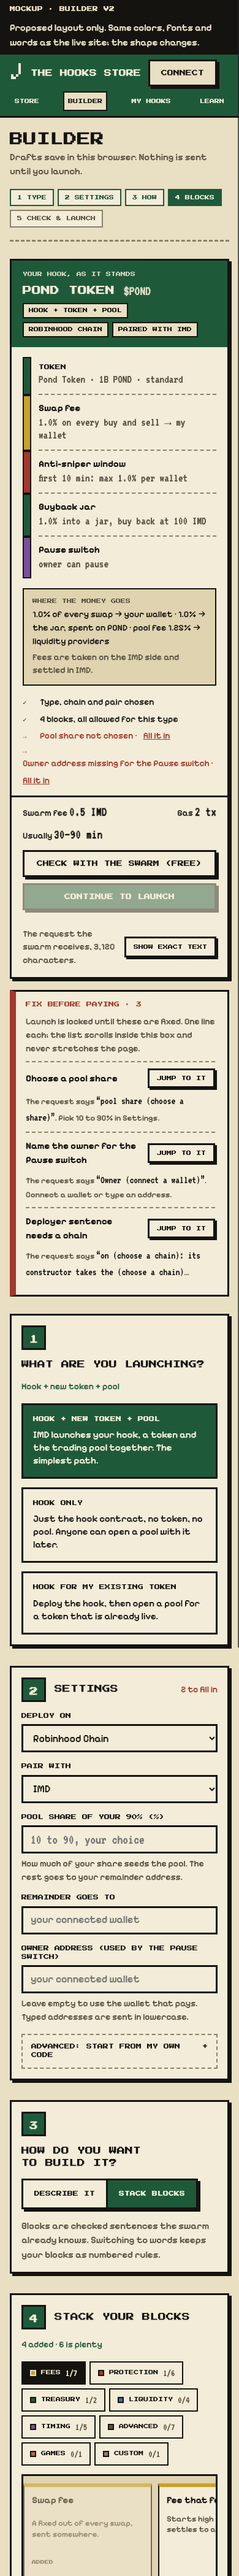
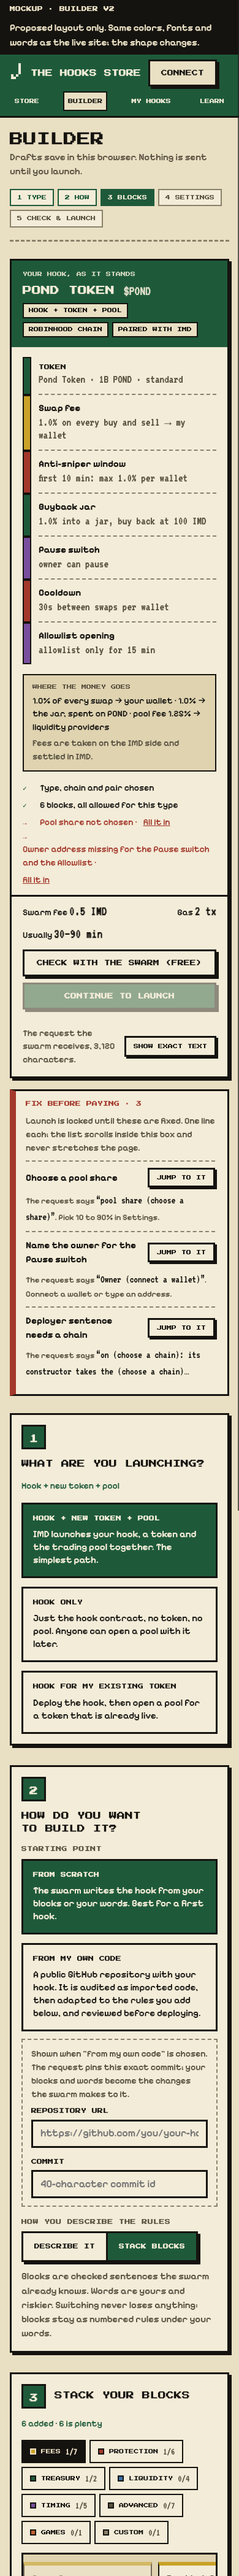
Ad contracts (Ethereum) admitted as launch 2456; Builder v2 round 3

diff --git a/mockup/builder-v2.html b/mockup/builder-v2.html
@@ -104,11 +104,22 @@ label { display: block; font: 400 9px/1.6 var(--display); margin: 0 0 6px; }
 .bcard.added { opacity: .55; }
 .stack-head { display: flex; justify-content: space-between; align-items: baseline; gap: 12px; flex-wrap: wrap; margin-bottom: 10px; }
 .stack-head h3 { font-size: 10px; } .stack-head .small { color: var(--ink-2); }
-.rule { background: var(--paper-3); border: 3px solid var(--ink); border-left: 12px solid var(--swatch, var(--ink)); padding: 14px 16px; margin-bottom: 14px; display: grid; gap: 10px; }
-.rule-head { display: flex; align-items: center; gap: 12px; flex-wrap: wrap; }
-.rule-head .n { font: 400 11px/1 var(--display); color: var(--ink-2); } .rule-head h3 { flex: 1 1 auto; }
-.rule-head .tools { display: flex; gap: 6px; }
-.rule-head .tools button { font: 400 9px/1 var(--display); min-width: 34px; min-height: 34px; border: 2px solid var(--ink); background: var(--paper-3); cursor: pointer; color: var(--ink); }
+.rule { background: var(--paper-3); border: 3px solid var(--ink); border-left: 12px solid var(--swatch, var(--ink)); margin-bottom: 8px; min-width: 0; }
+.rule .row { display: grid; grid-template-columns: auto minmax(0, 1fr) auto auto; gap: 12px; align-items: center; padding: 8px 12px 8px 14px; }
+.rule .row .n { font: 400 11px/1 var(--display); color: var(--ink-2); }
+.rule .txt { display: flex; gap: 10px 14px; align-items: baseline; flex-wrap: wrap; min-width: 0; }
+.rule .txt strong { font: 400 9px/1.6 var(--display); } .rule .txt span { font-family: var(--mono); font-size: 19px; line-height: 1.1; color: var(--ink-2); overflow-wrap: anywhere; }
+.rule .chip { font: 400 7px/1.5 var(--display); color: var(--ink-2); border: 2px solid var(--ink-3); padding: 4px 6px; white-space: nowrap; }
+.rule .chip.owner { color: var(--pine); border-color: var(--pine); }
+.rule .tools { display: flex; gap: 6px; }
+.rule .tools button { font: 400 8px/1 var(--display); min-width: 32px; min-height: 32px; border: 2px solid var(--ink); background: var(--paper-3); cursor: pointer; color: var(--ink); padding: 0 8px; }
+.rule .tools .edit { background: var(--paper-2); }
+.rule .body { display: none; padding: 4px 14px 14px; border-top: 2px dashed var(--ink-3); }
+.rule.open .body { display: grid; gap: 10px; }
+.rule.open .row { background: var(--paper-2); }
+.link { font: inherit; background: none; border: 0; padding: 0; color: var(--pine); text-decoration: underline; cursor: pointer; }
+.start { display: grid; grid-template-columns: 1fr 1fr; gap: 14px; }
+.own { margin-top: 12px; padding: 12px 14px; border: 2px dashed var(--ink-3); }
 .rule .params { display: grid; grid-template-columns: repeat(auto-fit, minmax(160px, 1fr)); gap: 12px; }
 .rule .who { font-size: 14px; color: var(--ink-2); }
 .rule .who b { color: var(--ink); font-weight: 600; }
@@ -180,7 +191,8 @@ dialog pre mark { background: #f6e3a1; color: inherit; outline: 2px solid var(--
   .hookcol .hookcard { box-shadow: var(--shadow); }
 }
 @media (max-width: 720px) {
-  .types, .fields { grid-template-columns: 1fr; }
+  .types, .fields, .start { grid-template-columns: 1fr; }
+  .rule .row { grid-template-columns: auto minmax(0, 1fr); } .rule .chip { grid-column: 2; justify-self: start; } .rule .tools { grid-column: 1 / -1; }
   .step { padding: 16px; }
   .shelf { display: flex; overflow-x: auto; scroll-snap-type: x mandatory; padding: 12px; gap: 10px; }
   .shelf .bcard { flex: 0 0 210px; scroll-snap-align: start; }
@@ -201,7 +213,7 @@ dialog pre mark { background: #f6e3a1; color: inherit; outline: 2px solid var(--
 <main class="wrap">
 <div class="head">
   <div><h1>BUILDER</h1><p>Drafts save in this browser. Nothing is sent until you launch.</p></div>
-  <div class="progress" aria-label="Progress"><span class="done">1 TYPE</span><span class="done">2 SETTINGS</span><span class="done">3 HOW</span><span class="now">4 BLOCKS</span><span>5 CHECK &amp; LAUNCH</span></div>
+  <div class="progress" aria-label="Progress"><span class="done">1 TYPE</span><span class="done">2 HOW</span><span class="now">3 BLOCKS</span><span>4 SETTINGS</span><span>5 CHECK &amp; LAUNCH</span></div>
 </div>
 
 <div class="b2">
@@ -216,25 +228,28 @@ dialog pre mark { background: #f6e3a1; color: inherit; outline: 2px solid var(--
     </div>
   </section>
 
-  <section class="step" aria-labelledby="s4">
-    <div class="step-head"><span class="n">2</span><h2 id="s4">SETTINGS</h2><span class="state" style="color:var(--bad)">2 to fill in</span></div>
-    <div class="fields">
-      <div><label for="s-chain">DEPLOY ON</label><select id="s-chain"><option value="">Choose a chain</option><option selected>Robinhood Chain</option><option>Ethereum</option></select></div>
-      <div><label for="s-pair">PAIR WITH</label><select id="s-pair"><option selected>IMD</option><option>ETH</option></select></div>
-      <div><label for="s-pool">POOL SHARE OF YOUR 90% (%)</label><input id="s-pool" type="number" placeholder="10 to 90, your choice" class="num"><p class="hint">How much of your share seeds the pool. The rest goes to your remainder address.</p></div>
-      <div><label for="s-rem">REMAINDER GOES TO</label><input id="s-rem" placeholder="your connected wallet" spellcheck="false"></div>
-      <div class="wide"><label for="s-owner">OWNER ADDRESS (USED BY THE PAUSE SWITCH)</label><input id="s-owner" placeholder="your connected wallet" spellcheck="false"><p class="hint">Leave empty to use the wallet that pays. Typed addresses are sent in lowercase.</p></div>
-    </div>
-    <details class="adv"><summary>ADVANCED: START FROM MY OWN CODE</summary><div><p class="small">Point the swarm at a public GitHub repository with your hook. It is audited as imported code, adapted to the launch, and reviewed before deploying.</p><div class="fields" style="margin-top:12px"><div><label for="s-repo">REPOSITORY URL</label><input id="s-repo" placeholder="https://github.com/you/your-hook"></div><div><label for="s-commit">COMMIT</label><input id="s-commit" placeholder="40-character commit id"></div></div></div></details>
-  </section>
+
+
+
 
   <section class="step" aria-labelledby="s2">
-    <div class="step-head"><span class="n">3</span><h2 id="s2">HOW DO YOU WANT TO BUILD IT?</h2><div class="seg" role="group" aria-label="Builder mode"><button type="button">DESCRIBE IT</button><button type="button" class="on">STACK BLOCKS</button></div></div>
-    <p class="mode-note">Blocks are checked sentences the swarm already knows. Switching to words keeps your blocks as numbered rules.</p>
+    <div class="step-head"><span class="n">2</span><h2 id="s2">HOW DO YOU WANT TO BUILD IT?</h2></div>
+    <h4 style="margin-bottom:8px">STARTING POINT</h4>
+    <div class="start">
+      <button class="type on" type="button"><strong>FROM SCRATCH</strong><span>The swarm writes the hook from your blocks or your words. Best for a first hook.</span></button>
+      <button class="type" type="button"><strong>FROM MY OWN CODE</strong><span>A public GitHub repository with your hook. It is audited as imported code, then adapted to the rules you add below, and reviewed before deploying.</span></button>
+    </div>
+    <div class="own" aria-label="Own code fields">
+      <p class="small muted" style="margin-bottom:10px">Shown when "from my own code" is chosen. The request pins this exact commit; your blocks and words become the changes the swarm makes to it.</p>
+      <div class="fields"><div><label for="s-repo">REPOSITORY URL</label><input id="s-repo" placeholder="https://github.com/you/your-hook"></div><div><label for="s-commit">COMMIT</label><input id="s-commit" placeholder="40-character commit id"></div></div>
+    </div>
+    <h4 style="margin:18px 0 8px">HOW YOU DESCRIBE THE RULES</h4>
+    <div class="seg" role="group" aria-label="Builder mode"><button type="button">DESCRIBE IT</button><button type="button" class="on">STACK BLOCKS</button></div>
+    <p class="mode-note">Blocks are checked sentences the swarm already knows. Words are yours and riskier. Switching never loses anything: blocks stay as numbered rules under your words.</p>
   </section>
 
   <section class="step" aria-labelledby="s3">
-    <div class="step-head"><span class="n">4</span><h2 id="s3">STACK YOUR BLOCKS</h2><span class="state">4 added · 6 is plenty</span></div>
+    <div class="step-head"><span class="n">3</span><h2 id="s3">STACK YOUR BLOCKS</h2><span class="state">6 added · 6 is plenty</span></div>
     <div class="shelf-tabs" role="tablist" aria-label="Block categories">
       <button role="tab" class="on" style="--swatch:var(--fees)"><i></i>FEES <span class="c">1/7</span></button>
       <button role="tab" style="--swatch:var(--protection)"><i></i>PROTECTION <span class="c">1/6</span></button>
@@ -255,36 +270,50 @@ dialog pre mark { background: #f6e3a1; color: inherit; outline: 2px solid var(--
       <div class="bcard"><strong>Dynamic LP fee</strong><p>The pool’s own fee tier moves with volatility. Own pools only.</p><div class="foot"><span class="state">OWN POOLS ONLY</span></div></div>
     </div>
 
-    <div class="stack-head"><h3>YOUR STACK</h3><span class="small">Rules run in this order. Drag or use the arrows.</span></div>
+    <div class="stack-head"><h3>YOUR STACK</h3><span class="small">One line per rule. Open a rule to change its numbers. <button class="link" type="button" id="expand-all">Open all</button></span></div>
     <div id="stack">
       <article class="rule" style="--swatch:var(--token)">
-        <div class="rule-head"><span class="n">0</span><h3>LAUNCH TOKEN</h3><span class="pill">STANDARD</span></div>
-        <div class="params"><div><label for="t-name">NAME</label><input id="t-name" value="Pond Token"></div><div><label for="t-sym">SYMBOL</label><input id="t-sym" value="POND"></div></div>
-        <p class="who">1B supply, 18 decimals, no owner. <b>10% to the swarm</b>, your pool share from the rest.</p>
+        <div class="row"><span class="n">0</span><div class="txt"><strong>LAUNCH TOKEN</strong><span>Pond Token ($POND) · standard · 1B</span></div><span class="chip">STANDARD</span><div class="tools"><button type="button" class="edit" aria-expanded="false">EDIT</button></div></div>
+        <div class="body"><div class="params"><div><label for="t-name">NAME</label><input id="t-name" value="Pond Token"></div><div><label for="t-sym">SYMBOL</label><input id="t-sym" value="POND"></div></div><p class="who">1B supply, 18 decimals, no owner. <b>10% to the swarm</b>, your pool share from the rest.</p></div>
       </article>
-      <article class="rule" style="--swatch:var(--fees)">
-        <div class="rule-head"><span class="n">1</span><h3>SWAP FEE</h3><div class="tools"><button type="button" aria-label="Move up">↑</button><button type="button" aria-label="Move down">↓</button><button type="button" aria-label="Remove">×</button></div></div>
-        <div class="params"><div><label for="f-rate">RATE (%)</label><input id="f-rate" type="number" value="1.0" step="0.1" class="num"></div><div><label for="f-on">ON</label><select id="f-on"><option>every buy and sell</option><option>buys only</option><option>sells only</option></select></div><div><label for="f-to">SEND TO</label><select id="f-to"><option>my wallet</option><option>treasury</option><option>an address…</option></select></div></div>
-        <p class="who"><b>Runs itself.</b> Anyone can press the button that sends collected fees to the recipient. · On the hook page: <b>claimFees()</b></p>
+      <article class="rule open" style="--swatch:var(--fees)">
+        <div class="row"><span class="n">1</span><div class="txt"><strong>SWAP FEE</strong><span>1.0% on every buy and sell → my wallet</span></div><span class="chip">RUNS ITSELF</span><div class="tools"><button type="button" aria-label="Move up">↑</button><button type="button" aria-label="Move down">↓</button><button type="button" aria-label="Remove">×</button><button type="button" class="edit" aria-expanded="true">CLOSE</button></div></div>
+        <div class="body"><div class="params"><div><label for="f-rate">RATE (%)</label><input id="f-rate" type="number" value="1.0" step="0.1" class="num"></div><div><label for="f-on">ON</label><select id="f-on"><option>every buy and sell</option><option>buys only</option><option>sells only</option></select></div><div><label for="f-to">SEND TO</label><select id="f-to"><option>my wallet</option><option>treasury</option><option>an address…</option></select></div></div><p class="who"><b>Runs itself.</b> Anyone can press the button that sends collected fees to the recipient. · On the hook page: <b>claimFees()</b></p></div>
       </article>
       <article class="rule" style="--swatch:var(--protection)">
-        <div class="rule-head"><span class="n">2</span><h3>ANTI-SNIPER WINDOW</h3><div class="tools"><button type="button" aria-label="Move up">↑</button><button type="button" aria-label="Move down">↓</button><button type="button" aria-label="Remove">×</button></div></div>
-        <div class="params"><div><label for="a-min">FOR THE FIRST (MIN)</label><input id="a-min" type="number" value="10" class="num"></div><div><label for="a-pct">MAX PER WALLET (% OF SUPPLY)</label><input id="a-pct" type="number" value="1.0" step="0.1" class="num"></div></div>
-        <p class="who"><b>Runs itself</b> for the window, then switches off. · On the hook page: <b>windowEndsAt()</b></p>
+        <div class="row"><span class="n">2</span><div class="txt"><strong>ANTI-SNIPER WINDOW</strong><span>first 10 min: max 1.0% per wallet</span></div><span class="chip">RUNS ITSELF</span><div class="tools"><button type="button" aria-label="Move up">↑</button><button type="button" aria-label="Move down">↓</button><button type="button" aria-label="Remove">×</button><button type="button" class="edit" aria-expanded="false">EDIT</button></div></div>
+        <div class="body"><div class="params"><div><label for="a-min">FOR THE FIRST (MIN)</label><input id="a-min" type="number" value="10" class="num"></div><div><label for="a-pct">MAX PER WALLET (% OF SUPPLY)</label><input id="a-pct" type="number" value="1.0" step="0.1" class="num"></div></div><p class="who"><b>Runs itself</b> for the window, then switches off. · On the hook page: <b>windowEndsAt()</b></p></div>
       </article>
       <article class="rule" style="--swatch:var(--treasury)">
-        <div class="rule-head"><span class="n">3</span><h3>BUYBACK JAR</h3><div class="tools"><button type="button" aria-label="Move up">↑</button><button type="button" aria-label="Move down">↓</button><button type="button" aria-label="Remove">×</button></div></div>
-        <div class="params"><div><label for="j-rate">INTO THE JAR (%)</label><input id="j-rate" type="number" value="1.0" step="0.1" class="num"></div><div><label for="j-trig">BUY BACK AT (IMD)</label><input id="j-trig" type="number" value="100" class="num"></div></div>
-        <p class="who"><b>Runs itself;</b> anyone presses the button when the jar is full. · On the hook page: <b>buyback()</b>, <b>jar()</b></p>
+        <div class="row"><span class="n">3</span><div class="txt"><strong>BUYBACK JAR</strong><span>1.0% into a jar, buy back at 100 IMD</span></div><span class="chip">ANYONE PRESSES</span><div class="tools"><button type="button" aria-label="Move up">↑</button><button type="button" aria-label="Move down">↓</button><button type="button" aria-label="Remove">×</button><button type="button" class="edit" aria-expanded="false">EDIT</button></div></div>
+        <div class="body"><div class="params"><div><label for="j-rate">INTO THE JAR (%)</label><input id="j-rate" type="number" value="1.0" step="0.1" class="num"></div><div><label for="j-trig">BUY BACK AT (IMD)</label><input id="j-trig" type="number" value="100" class="num"></div></div><p class="who"><b>Runs itself;</b> anyone presses the button when the jar is full. · On the hook page: <b>buyback()</b>, <b>jar()</b></p></div>
       </article>
       <article class="rule" style="--swatch:var(--timing)">
-        <div class="rule-head"><span class="n">4</span><h3>PAUSE SWITCH</h3><div class="tools"><button type="button" aria-label="Move up">↑</button><button type="button" aria-label="Move down">↓</button><button type="button" aria-label="Remove">×</button></div></div>
-        <p class="who"><b>The owner</b> can pause and resume swaps. Liquidity can always be removed while paused. Buyers may dislike it. · On the hook page: owner buttons <b>pause</b>, <b>unpause</b></p>
+        <div class="row"><span class="n">4</span><div class="txt"><strong>PAUSE SWITCH</strong><span>owner can pause</span></div><span class="chip owner">OWNER</span><div class="tools"><button type="button" aria-label="Move up">↑</button><button type="button" aria-label="Move down">↓</button><button type="button" aria-label="Remove">×</button><button type="button" class="edit" aria-expanded="false">EDIT</button></div></div>
+        <div class="body"><p class="who"><b>The owner</b> can pause and resume swaps. Liquidity can always be removed while paused. Buyers may dislike it. · On the hook page: owner buttons <b>pause</b>, <b>unpause</b></p></div>
+      </article>
+      <article class="rule" style="--swatch:var(--protection)">
+        <div class="row"><span class="n">5</span><div class="txt"><strong>COOLDOWN</strong><span>30s between swaps per wallet</span></div><span class="chip">RUNS ITSELF</span><div class="tools"><button type="button" aria-label="Move up">↑</button><button type="button" aria-label="Move down">↓</button><button type="button" aria-label="Remove">×</button><button type="button" class="edit" aria-expanded="false">EDIT</button></div></div>
+        <div class="body"><div class="params"><div><label for="c-secs">WAIT (SECONDS)</label><input id="c-secs" type="number" value="30" class="num"></div></div><p class="who"><b>Runs itself.</b> Makes a wallet wait between swaps.</p></div>
+      </article>
+      <article class="rule" style="--swatch:var(--timing)">
+        <div class="row"><span class="n">6</span><div class="txt"><strong>ALLOWLIST OPENING</strong><span>allowlist only for 15 min</span></div><span class="chip owner">OWNER</span><div class="tools"><button type="button" aria-label="Move up">↑</button><button type="button" aria-label="Move down">↓</button><button type="button" aria-label="Remove">×</button><button type="button" class="edit" aria-expanded="false">EDIT</button></div></div>
+        <div class="body"><div class="params"><div><label for="w-min">FOR THE FIRST (MIN)</label><input id="w-min" type="number" value="15" class="num"></div></div><p class="who"><b>The owner</b> adds and removes buyer addresses. While it is active, only the owner may add liquidity.</p></div>
       </article>
     </div>
+    <p class="hint" style="margin-top:10px">Six rules stacked. Above six, every extra rule is more for the audit panel to refuse, and the contract has a 24 KB size limit.</p>
   </section>
 
-
+  <section class="step" aria-labelledby="s4">
+    <div class="step-head"><span class="n">4</span><h2 id="s4">SETTINGS</h2><span class="state" style="color:var(--bad)">2 to fill in</span></div>
+    <div class="fields">
+      <div><label for="s-chain">DEPLOY ON</label><select id="s-chain"><option value="">Choose a chain</option><option selected>Robinhood Chain</option><option>Ethereum</option></select></div>
+      <div><label for="s-pair">PAIR WITH</label><select id="s-pair"><option selected>IMD</option><option>ETH</option></select></div>
+      <div><label for="s-pool">POOL SHARE OF YOUR 90% (%)</label><input id="s-pool" type="number" placeholder="10 to 90, your choice" class="num"><p class="hint">How much of your share seeds the pool. The rest goes to your remainder address.</p></div>
+      <div><label for="s-rem">REMAINDER GOES TO</label><input id="s-rem" placeholder="your connected wallet" spellcheck="false"></div>
+      <div class="wide"><label for="s-owner">OWNER ADDRESS (USED BY THE PAUSE SWITCH)</label><input id="s-owner" placeholder="your connected wallet" spellcheck="false"><p class="hint">Leave empty to use the wallet that pays. Typed addresses are sent in lowercase.</p></div>
+    </div>
+  </section>
 </div>
 
 <aside class="hookcol" aria-label="The hook you are building">
@@ -300,13 +329,15 @@ dialog pre mark { background: #f6e3a1; color: inherit; outline: 2px solid var(--
       <div class="tile" style="--swatch:var(--protection)"><i></i><div class="t"><strong>Anti-sniper window</strong><span>first 10 min: max 1.0% per wallet</span></div></div>
       <div class="tile" style="--swatch:var(--treasury)"><i></i><div class="t"><strong>Buyback jar</strong><span>1.0% into a jar, buy back at 100 IMD</span></div></div>
       <div class="tile" style="--swatch:var(--timing)"><i></i><div class="t"><strong>Pause switch</strong><span>owner can pause</span></div></div>
+      <div class="tile" style="--swatch:var(--protection)"><i></i><div class="t"><strong>Cooldown</strong><span>30s between swaps per wallet</span></div></div>
+      <div class="tile" style="--swatch:var(--timing)"><i></i><div class="t"><strong>Allowlist opening</strong><span>allowlist only for 15 min</span></div></div>
     </div>
     <div class="flow"><b>WHERE THE MONEY GOES</b><span>1.0% of every swap → your wallet · 1.0% → the jar, spent on POND · pool fee 1.25% → liquidity providers</span><span class="muted">Fees are taken on the IMD side and settled in IMD.</span></div>
     <ul class="ready" aria-label="Before you can launch">
       <li>Type, chain and pair chosen</li>
-      <li>4 blocks, all allowed for this type</li>
+      <li>6 blocks, all allowed for this type</li>
       <li class="todo">Pool share not chosen · <button type="button">fill it in</button></li>
-      <li class="todo">Owner address missing for the Pause switch · <button type="button">fill it in</button></li>
+      <li class="todo">Owner address missing for the Pause switch and the Allowlist · <button type="button">fill it in</button></li>
     </ul>
     <div class="cost"><span>Swarm fee <strong>0.5 IMD</strong></span><span>Gas <strong>2 tx</strong></span><span>Usually <strong>30–90 min</strong></span></div>
     <div class="hc-actions"><button class="btn" type="button">CHECK WITH THE SWARM (FREE)</button><button class="btn primary" type="button" disabled>CONTINUE TO LAUNCH</button></div>
@@ -325,7 +356,7 @@ dialog pre mark { background: #f6e3a1; color: inherit; outline: 2px solid var(--
 </aside>
 </div>
 
-<div class="note"><b>WHAT CHANGED, FOR THE OWNER</b>Settings come second, right after the launch type, so chain, pair and pool share are chosen before any block. The three cramped columns become two: the steps you work through on the left, and the hook itself on the right as a stack of tiles you can read at a glance. The block palette is a shelf above the stack, grouped by category tabs, with each block’s description visible. The red "fix the request" panel never quotes the whole request again: one line per problem, the few words that are wrong, and a button that jumps to the field. The exact text the swarm receives opens in a sheet when you ask for it, with the wrong words highlighted. Every list that can grow, your stack of tiles, the findings and the exact text, scrolls inside its own box; the hook card never gets taller than the screen. Everything else, the words, the numbers, the checks and the prices, is the same.</div>
+<div class="note"><b>WHAT CHANGED, FOR THE OWNER</b>The order is type, how, blocks, settings. "Start from my own code" moved into step 2 as the starting point: your repository is audited as imported code, then adapted to the blocks and words you add, so blocks on top of your own code is a real path. The stack is one line per rule, with the numbers filled in, a chip saying who uses it, and the fields only when you open a rule, so ten rules take the space four used to. The hook card on the right reads the same stack at a glance, with where the money goes and a readiness list. Findings are one line each in a box that scrolls; the exact text opens in a sheet with the wrong words highlighted. Same colours, fonts, words and prices. No change to what is sent to IMD or to the relay.</div>
 </main>
 
 <dialog id="exact">
@@ -355,6 +386,8 @@ Owner <mark>(connect a wallet)</mark> may only: pause and unpause swaps. No othe
     document.getElementById('tiles').appendChild(tile);
     var card = b.closest('.bcard'); card.classList.add('added'); card.querySelector('.state').textContent = 'ADDED'; b.remove();
   });
+  document.getElementById('stack').addEventListener('click', function (e) { var b = e.target.closest('.edit'); if (!b) return; var r = b.closest('.rule'); r.classList.toggle('open'); var on = r.classList.contains('open'); b.textContent = on ? 'CLOSE' : 'EDIT'; b.setAttribute('aria-expanded', on); });
+  document.getElementById('expand-all').addEventListener('click', function () { var all = [...document.querySelectorAll('.rule')]; var open = all.some(function (r) { return !r.classList.contains('open'); }); all.forEach(function (r) { r.classList.toggle('open', open); var b = r.querySelector('.edit'); b.textContent = open ? 'CLOSE' : 'EDIT'; b.setAttribute('aria-expanded', open); }); this.textContent = open ? 'Close all' : 'Open all'; });
   document.querySelectorAll('.shelf-tabs button').forEach(function (t) { t.addEventListener('click', function () { document.querySelectorAll('.shelf-tabs button').forEach(function (x) { x.classList.remove('on'); }); t.classList.add('on'); }); });
 })();
 </script>

diff --git a/evidence/launch-10a-ethereum-reviews.md b/evidence/launch-10a-ethereum-reviews.md
@@ -1,0 +1,164 @@
+# Ad contracts launch (Ethereum) reviews, copied from https://explorer.imd.fun/jobs/a9818b4d-a1fe-4ef7-bab0-82509f56b0ac on 2026-10-22
+
+Implemented both contracts. The registry remains byte-identical to the pinned source; V2 adds 24-hour placements, nonrefundable boosts, ranking totals, and tested escrow conservation.
+Passed forge build, all 65 tests with the supplied fuzz seed, and forge fmt --check.
+Deployment parameters, owner setup, and ABI changes are documented in README.md.
+
+---
+
+I found no defects I could back up with a failing input, so .imd-findings.json has an empty findings list. Its coverage record has a row for all 18 entry points, each marked holds, plus rows for the balance invariant and the source diff. No repository files were changed.
+What I checked:
+
+Changes against the starting source. I fetched the original contracts at commit 46e17ea. HookListingRegistry, StoreAdmin and ExactStoreToken are byte-identical. FeaturedPlacementsV2 differs only in what was asked for:
+
+DURATION is 24 hours.
+It adds totalBoost, boost and rankOf.
+featured also returns each placement's total.
+The cancel and settle events now carry the #ad label.
+
+
+Following the money. boost moves the caller's deposited balance into escrow. cancel refunds the base price to the payer pro rata exactly as before, and sends the earned base plus the whole boost to the recipient fixed at purchase. settle sends price plus boost to that recipient and can't run twice. Every path moves equal amounts between buckets, so the balance rule (available + escrowed + proceeds) always holds. Boosts are refused after a placement closes or expires.
+Access. Owner functions are owner-only with an explicit owner argument. There is no admin sweep. Changing the proceeds recipient affects only future purchases, and existing placements, boosts included, keep theirs.
+Static-analysis leads. None held up:
+
+The reentrancy leads are blocked by the reentrancy guard.
+The external call in purchase only reads from the fixed registry address.
+The flagged "strict equality" is a status check, not a balance check.
+The registry's loops are capped at 16 labels of 32 bytes.
+
+
+The IMD token. Read on Ethereum mainnet, 0xd34a99bc…63b7 reports 18 decimals and symbol IMD, and has no proxy. That fits configureToken's checks and the exact-transfer checks.
+Tests. forge test passes all 65 tests, including the boost tests and the invariant tests with boosts.
+
+One behaviour I left out as a finding because the specified boost(uint256,uint256) signature doesn't allow for it: a boost has no deadline. A boost waiting in the mempool could land a few seconds before the placement expires and still be kept in full.
+A clean review doesn't prove the contracts are free of defects.
+
+---
+
+Created launch.json with both contracts in dependency order and the required $owner argument.
+Manifest checks and compiled ABI comparison passed. forge build succeeded; all 65 tests passed with the supplied fuzz seed. Only launch.json is changed for submission.
+
+---
+
+The findings file is in place at the repository root (excluded from git by the harness's own exclude rule, as expected), it parses, and both snippets match the tree line for line. No other file was created or changed.
+Scope
+Files read: src/store/FeaturedPlacementsV2.sol, ExactStoreToken.sol, StoreAdmin.sol, HookListingRegistry.sol, all eight test suites and both helpers, the README and verification notes, the Pashov Mindset plus the Economic Security, Invariant and Flow Gap guides, and the protected deployment floor. The existing suite runs green at 65 tests including two stateful invariant suites of 128 runs by 128 calls.
+Severity counts: 0 Critical · 0 High · 0 Medium · 0 Low · 2 Info
+Result: no defect found in the economic area. The two info entries are design consequences the brief itself mandates, recorded so the judge and operator see them, not fixes the author must make.
+
+Boost forfeiture with no expectation guard. A third party's boost can be back-run by the payer's cancel in the same block, sending the whole boost to the proceeds recipient for zero delivered exposure. The brief requires exactly this ("never refunded"), and the existing immediate-cancel test reproduces it. Conservation holds throughout.
+Stray IMD sent directly to the escrow is unrecoverable. Nothing can sweep it, including the owner. The original design states there is no sweep, and the existing direct-transfer test reproduces it.
+
+What I verified and concluded holds:
+
+Conservation. Every writer of the three totals was traced. Deposit and withdraw move only available balance behind exact delta checks. Purchase and boost move available into escrow one for one. Cancel removes exactly base plus boost from escrow and splits it into refund and earned. Settle moves base plus boost to proceeds.
+One live placement per listing. A new purchase needs the latest placement to be dead, and earlier placements always end sooner, so none can come back to life. Listing transfers keep the same id and the rule survives.
+Pinned terms. Recipient and revision are captured at purchase. Rotating the recipient or editing the listing cannot redirect existing escrow or boosts.
+Live dependency. I read the IMD token on mainnet. It is "Identity.md", 18 decimals, a LayerZero OFT over a standard ERC-20. Its selector set has no pause, fee, or blacklist entry, and the only owner-side token powers are name and symbol updates and messaging configuration, so the dependency cannot freeze deposits or withdrawals.
+Static analysis leads. The strict-equality lines compare an enum to None, the reentrancy line is a staticcall into the immutable registry, and the unused-return line is an intentional ABI probe. None reproduces as a defect.
+
+The coverage record answers all 18 entry points and adds rows for the conservation, boost-escrow, ranking and rounding invariants. No part of the assigned area was left unreached.
+
+---
+
+All 73 tests pass under forge build and forge test with the verifier's fuzz seed (65 already there plus 8 new). I found no defects, so I did not write .imd-findings.json. The new tests are on disk but not committed. Everything I added is under test/, and the source, config and earlier tests are unchanged.
+The earlier tests already covered everything the brief asked for: the 24-hour duration, a third party boosting, the boost being lost on cancel, ranking ties, and the balance invariant with boosts. I added three files for what was still missing:
+
+
+test/FeaturedModelInvariant.t.sol: random call sequences against FeaturedPlacementsV2. The earlier invariant handlers skip calls that should fail; this one makes every call. That includes callers who should be refused: Carol, who boosts but never owns a listing; Mallory, an outsider who also tries the owner-only functions; and the proceeds recipients. Each call must succeed exactly when a separate model of the contract says it should, so a refused call is shown to change nothing. It also mixes in boosts right at the expiry second, listing transfers, recipient changes and tokens sent directly to the contract. After every sequence it checks that:
+
+the contract's token balance equals totalAvailable + totalEscrowed + totalProceeds, plus any tokens sent directly;
+each account's balances, each placement's status, refund and boost, and rankOf match the model;
+a closed placement never reopens, and each listing has at most one live placement;
+featured returns totals that line up with rankOf, in ascending id order;
+only proceeds recipients ever earn anything;
+at the end, everything still locked can be paid out without the owner.
+
+To check that this suite can actually fail, I ran a copy with a deliberately wrong cancel rule. It failed straight away.
+
+
+test/HookListingRegistryInvariant.t.sol: random create, update, hide/show, propose, cancel and accept calls on the registry from any caller, checked against a model. Every listing must stay findable under its current owner, with no stale entries left behind after a transfer. Labels, revisions and search results must match, and isAudited must stay false.
+
+
+test/FeaturedBoostEdges.t.sol (6 tests):
+
+a fuzz test showing a boost can spend exactly the caller's deposited balance and not 1 more;
+a fuzz test where a new listing owner cancels a placement Carol boosted, at a random time: the seller gets the pro-rata base refund, Carol gets nothing back, and her whole boost goes to the pinned recipient;
+earned proceeds can't pay for a boost, and deposits can't be withdrawn as proceeds;
+a booster can't cancel, and nobody can settle early;
+an owner who has proposed a transfer, and a former owner, have no owner powers;
+an ad stays live and boostable after its listing is hidden, but the listing can't buy another while hidden.
+
+
+
+Two behaviours match the brief as I read it, so I didn't report them as defects; they're worth deciding on deliberately:
+
+Boosting stops at expiry. Once a placement's 24 hours are up, boosting it is refused, even before anyone settles it. The brief says boosts are allowed "while the placement is open", which I took to mean live.
+A booster can lose their boost almost immediately. If the buyer or the listing's current owner cancels one second after a third party boosts, the whole boost goes to the proceeds recipient. That is the "never refunded" rule working as written, but the website may want to warn boosters about it.
+
+No tests were needed against the live IMD token: the contract never calls it at construction, and the earlier tests cover badly behaved tokens with a local mock.
+
+---
+
+The review is complete and the findings file is in place. No source files were changed, and the scratch tests were removed.
+Outcome: the math in FeaturedPlacementsV2 holds. I found no defect that loses funds, pays the wrong party, or breaks the conservation rule. The file .imd-findings.json holds two info-level notes and a coverage row for all 18 entry points plus three invariant rows.
+What I checked, against the Math Precision, Boundary and Numerical Gap guides
+
+The diff against the audited original is exactly the briefed change set. The three unchanged files match the provenance hashes byte for byte. The pro-rata formula is identical to the original with only the divisor changed.
+The single division in cancel cannot overflow (product under 9e21) and is bounded by the expiry guard, so refund plus earned always equals the base price exactly. Boosts are added outside the division, so they never round.
+Every boundary comparison is consistent: boost and cancel reject at or after expiry, settle accepts at expiry, purchase allows renewal exactly at expiry, and the one-live-placement check uses the same predicate as the active view.
+Escrow accounting increments and decrements pair exactly across all seven state-changing functions, so the conservation rule holds with boosts counted in escrow until close. The existing invariant suite with boosts passes.
+The live IMD token on Ethereum reports 18 decimals and passed a throwaway fork run of the full deposit, purchase, boost, cancel and proceeds cycle under the exact-transfer checks.
+All 65 existing tests pass on forge 1.8.3, including the required boost, forfeiture, tie and invariant tests.
+Static-analysis leads were all benign: enum strict-equality, an intentional ABI probe, and a view call to the immutable registry.
+
+The two info notes, with concrete inputs
+
+Cancelling in the same block as the purchase earns the recipient zero and returns the full base, and at one second elapsed the recipient is short by under one wei. This is the agreed pro-rata rule, not a defect. The only effect is that a listing owner can inflate the placement ID space for gas alone.
+The pinned proceeds recipient, which is the owner wallet, can boost any placement and receive the same tokens back as proceeds. The paid ranking is therefore a trust assumption on the owner, not an enforced guarantee.
+
+Not reached: nothing in my assigned area. I did not independently audit the access-control or economics areas beyond what the coverage rows state, since other specialists hold those.
+
+---
+
+The review is complete. The findings file is written and the tree is otherwise unchanged.
+Result: no defect in the permission model. The Access Control, Trust Gap and Asymmetry checks all hold against the code as it stands. The file .imd-findings.json carries one informational trust note and a coverage row for all 18 entry points plus three invariants.
+What I verified
+
+Every owner power is exactly what the brief lists: one-time token choice, recipient for future purchases, two-step rotation. The owner has no sweep, cancel, spend or redirect path. A scratch test confirmed the owner's calls to cancel, withdraw, withdrawProceeds, boost and early settle all revert.
+Recipient rotation cannot touch in-flight value. Each placement pins its recipient at purchase, and purchase takes an expected recipient, so the owner cannot sandwich a buyer or sweep escrowed boosts.
+Every storage variable written by two or more functions is written only on behalf of msg.sender or the pinned payer and recipient. The deposit and withdraw, purchase and cancel or settle, and boost and close pairs mirror each other exactly.
+The registry has no administrator. Listing identity includes the creator, so nobody can squat or block another claim. Self-transfer and relist-after-transfer keep the identity index consistent.
+The vendored sources are byte-identical to the pinned upstream commit, and the V2 diff is confined to the briefed changes.
+The live Ethereum IMD token is a verified, exact-match OpenZeppelin v5 ERC20 with a LayerZero OFT extension. It has no transfer fee, pause or blacklist. A fork rehearsal of deposit, purchase, boost, cancel and withdraw passed against it.
+The full suite passes with the README's fuzz seed.
+
+CheckResultFoundry tests65 passed, 0 failedEntry points covered18 of 18
+The one note is a design-level trust assumption rather than a defect. Anyone may boost a placement, but the payer or the current listing owner may cancel it at any moment and the whole boost then goes to the proceeds recipient. The brief requires this and the README discloses it. The website should keep that disclosure next to the boost action.
+Not covered: the token owner's LayerZero bridge configuration can mint IMD on Ethereum. That is a property of the token, not of these contracts, and the brief fixes the token address.
+
+---
+
+The review found no defects, so .imd-findings.json has an empty findings list and a coverage record of 20 rows. Those rows cover all 18 entry points, each marked holds, plus one row for the conservation invariant and one for deployment.
+What I checked against the code
+
+Changes from the audited original: I cloned the source at commit 46e17ea. HookListingRegistry, ExactStoreToken and StoreAdmin are byte-identical to it. FeaturedPlacementsV2 changes only what the brief asks for: the 24-hour duration, totalBoost, boost, rankOf, and the per-placement totals returned by featured. It also adds the #ad label to the cancel and settle events, which the brief requires.
+Tests: forge test passes all 73 tests. The suite already has the tests the brief asked for: a third-party boost, boost forfeiture on cancel, ranking ties, and invariant tests that include boosts (FeaturedInvariant and FeaturedModelInvariant).
+Deployment: neither constructor calls another contract. Deployed sizes are 9,108 and 9,035 bytes, well under the 24,576 limit. launch.json has only kind, contracts and notes. Its constructor arguments match the declared parameters: none for the registry, and $owner then $contract:HookListingRegistry for FeaturedPlacementsV2. There is no delegatecall, selfdestruct or tx.origin, and ownership never comes from msg.sender at construction.
+
+Specialist findings (all 5 were info level)
+I reproduced each one in a scratch Foundry test, which I deleted afterwards. All four tests passed, and each describes behaviour the brief asks for, so I kept none as defects:
+
+Boost can be lost to an immediate cancel: the economics and permissions specialists reported the same thing, so I merged them. If the payer or listing owner cancels right after someone boosts, the boost goes to the proceeds recipient. The brief says boosts are never refunded.
+Free cancel in the same block, and rounding: cancelling in the same block refunds the full price. After 1 second, the refund is 99998842592592593 and the recipient's proceeds are 1157407407407, so rounding favours the payer by under 1 wei. The formula is the same as in the audited original.
+The proceeds recipient can boost for free: boosting then settling returns everything to the recipient, so their ranking costs them only gas. This is an owner trust assumption.
+Tokens sent directly to the contract are stuck: they aren't recorded as anyone's balance, and there is deliberately no admin sweep to recover them.
+
+Static-analysis leads, all rejected
+
+The "strict equality" warnings are enum status checks.
+The ignored return value in configureToken is a deliberate check that the token has a working balance function.
+The "reentrancy" warnings concern code that is already guarded against reentrancy, plus a read-only call to the project's own fixed registry.
+The timestamp warnings are for the 24-hour expiry checks, which need the timestamp.
+
+The working tree also has untracked files I didn't create (.bashrc, .claude/, .vscode and others). I left them alone.

diff --git a/jobs/log.md b/jobs/log.md
@@ -297,3 +297,9 @@ Transaction 0x3c524b4550f4e459f63c1173f8fdd1748df2df6eb0be5305c5dc05463c833d8e (
 The owner asked for a less cramped Builder that lets a user see what they are making, and pointed at the "Fix the request before paying" panel, which quotes the whole request paragraph under each finding. Proposal in mockup/builder-v2.html (artifact https://claude.ai/artifact/PSCf7yJjr1xCqhnrttmHqf, screenshots in mockup/shots/): two zones instead of three columns; the hook as a card of tiles on the right with where the money goes, a readiness list, cost and the two buttons; the palette as a category shelf above the stack with every block's description visible; findings one line each with the few wrong words and a jump button; the exact text in a sheet opened on request with the wrong words highlighted. Same colours, fonts, words and prices. Awaiting the owner's reaction before SPEC 3.2 is rewritten and a job is drafted.
 
 Builder v2, round 2 (06:00 UTC): the owner asked that findings stay inside their own box and never flood the page, that Settings come early, and that nothing drags its container wider. Mockup updated (artifact version 2): Settings is step 2, after the launch type; the findings list, the tile stack and the exact text each scroll inside their own box, with each finding's excerpt clamped to two lines; the hook card never exceeds the screen height. Phone width verified with no horizontal overflow.
+
+## Ad contracts, launch 2 of 2 (Ethereum): audited and admitted as launch 2456 (2026-10-22 06:10 UTC)
+
+Job a9818b4d completed 24 minutes after payment with all eight steps accepted and no revision round. Launch 3836b728-fabb-40bc-a57f-180416ed7f84, number 2456, status admitted; every admission check passed (bytecode "3 contracts clean and reproducible", manifest "2 application contracts"). Attested: HookListingRegistry, FeaturedPlacementsV2, ExactStoreToken (test token, not deployed). Source: identity-md-launches/launch-2456-what-build-two-immutable @ fcca6490, 73 tests, deployed sizes 9,108 and 9,035 bytes. The judge kept no defect: the five specialist notes were all informational and describe behaviour the brief asks for (the same boost-and-cancel and no-deadline notes as launch 2454). Evidence: launch-10a-ethereum-job.json, launch-10a-ethereum-launch-admitted.json, launch-10a-ethereum-reviews.md. Both halves of job 10a are now audited and admitted; both wait on IMD's deployer, stalled since 02:37.
+
+Builder v2, round 3 (06:10 UTC): the owner asked for a compact stack, the order type, how, blocks, settings, and "start from my own code" moved up into step 2. Mockup updated (artifact version 3): step 2 has a starting point (from scratch, or from my own code with the repository and commit fields) above the describe-or-stack control; the stack is one line per rule with the numbers filled in, a chip saying who uses it, and the fields only when a rule is opened, with an open-all link; the card on the right shows six tiles. Own code works today as a starting point: the composer writes "Start from the creator's own source at <repo> commit <c>: audit it as imported code, adapt it to this launch, and keep its behavior." and the blocks and words follow as the rules the swarm applies, so blocks on top of own code is the existing path, not a new one.
